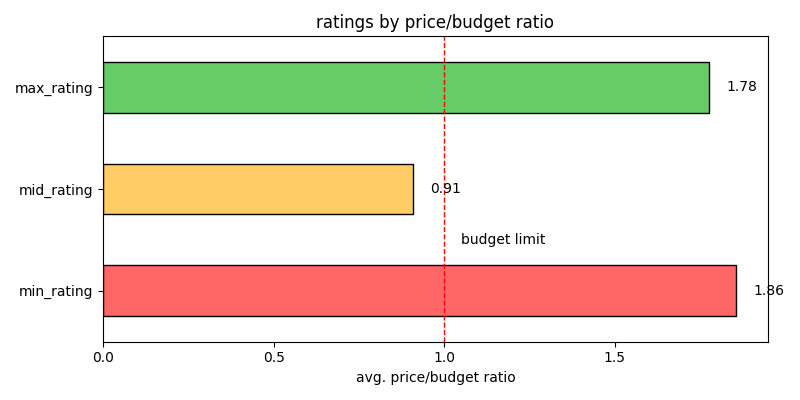
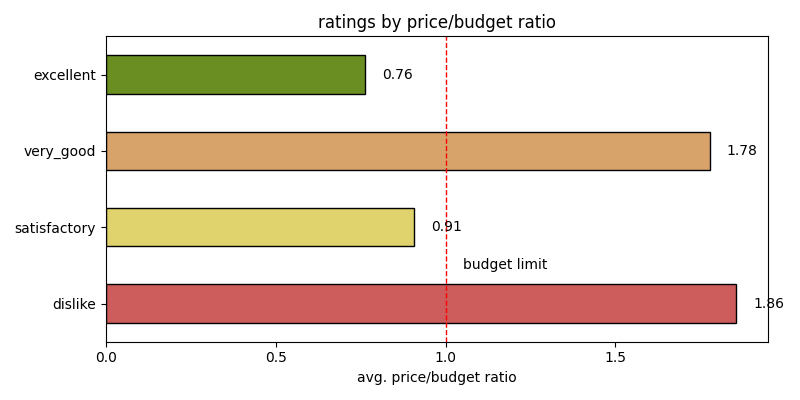
fix: bar plot implementation

diff --git a/main.py b/main.py
@@ -67,34 +67,28 @@ def explore_df(df):
     plt.savefig("exploratory_analysis/gender_cuisine_preference.png")
     plt.clf()
 
-    # calculate average ratio per rating
-    ratings_order = ['dislike', 'satisfactory', 'very_good']
+    # calculate average price / budget ratio per rating
+    ratings_order = ['dislike', 'satisfactory', 'very_good', 'excellent']
     avg_ratio = df.groupby('rating')['price_over_budget'].mean().reindex(ratings_order)
 
     plt.figure(figsize=(8,4))
-    avg_ratio.plot.barh(color=['#ff6666', '#ffcc66', '#66cc66'], edgecolor='black')
+    avg_ratio.plot.barh(color=["#CD5C5C", "#E0D26D", "#D8A26B", "#6B8E23"], edgecolor='black')
 
-    # add critical info
     plt.axvline(1.0, color='red', linestyle='--', linewidth=1)
     plt.text(1.05, 0.5, 'budget limit', color='black', va='center')
 
-    # dumb it down
     plt.title('ratings by price/budget ratio')
     plt.xlabel('avg. price/budget ratio')
     plt.ylabel('')
     plt.xticks([0, 0.5, 1.0, 1.5])
-    plt.yticks(ticks=range(3), labels=['min_rating', 'mid_rating', 'max_rating'])
+    plt.yticks(ticks=range(4), labels=['dislike', 'satisfactory', 'very_good', 'excellent'])
 
-    # add raw numbers
     for i, v in enumerate(avg_ratio):
         plt.text(v + 0.05, i, f"{v:.2f}", va='center')
 
     plt.tight_layout()
     plt.savefig("exploratory_analysis/price_budget_ratio_preference.png")
     plt.clf()
-
-
-    # age rating by cuisine type
 
 
 def preprocess(df):
